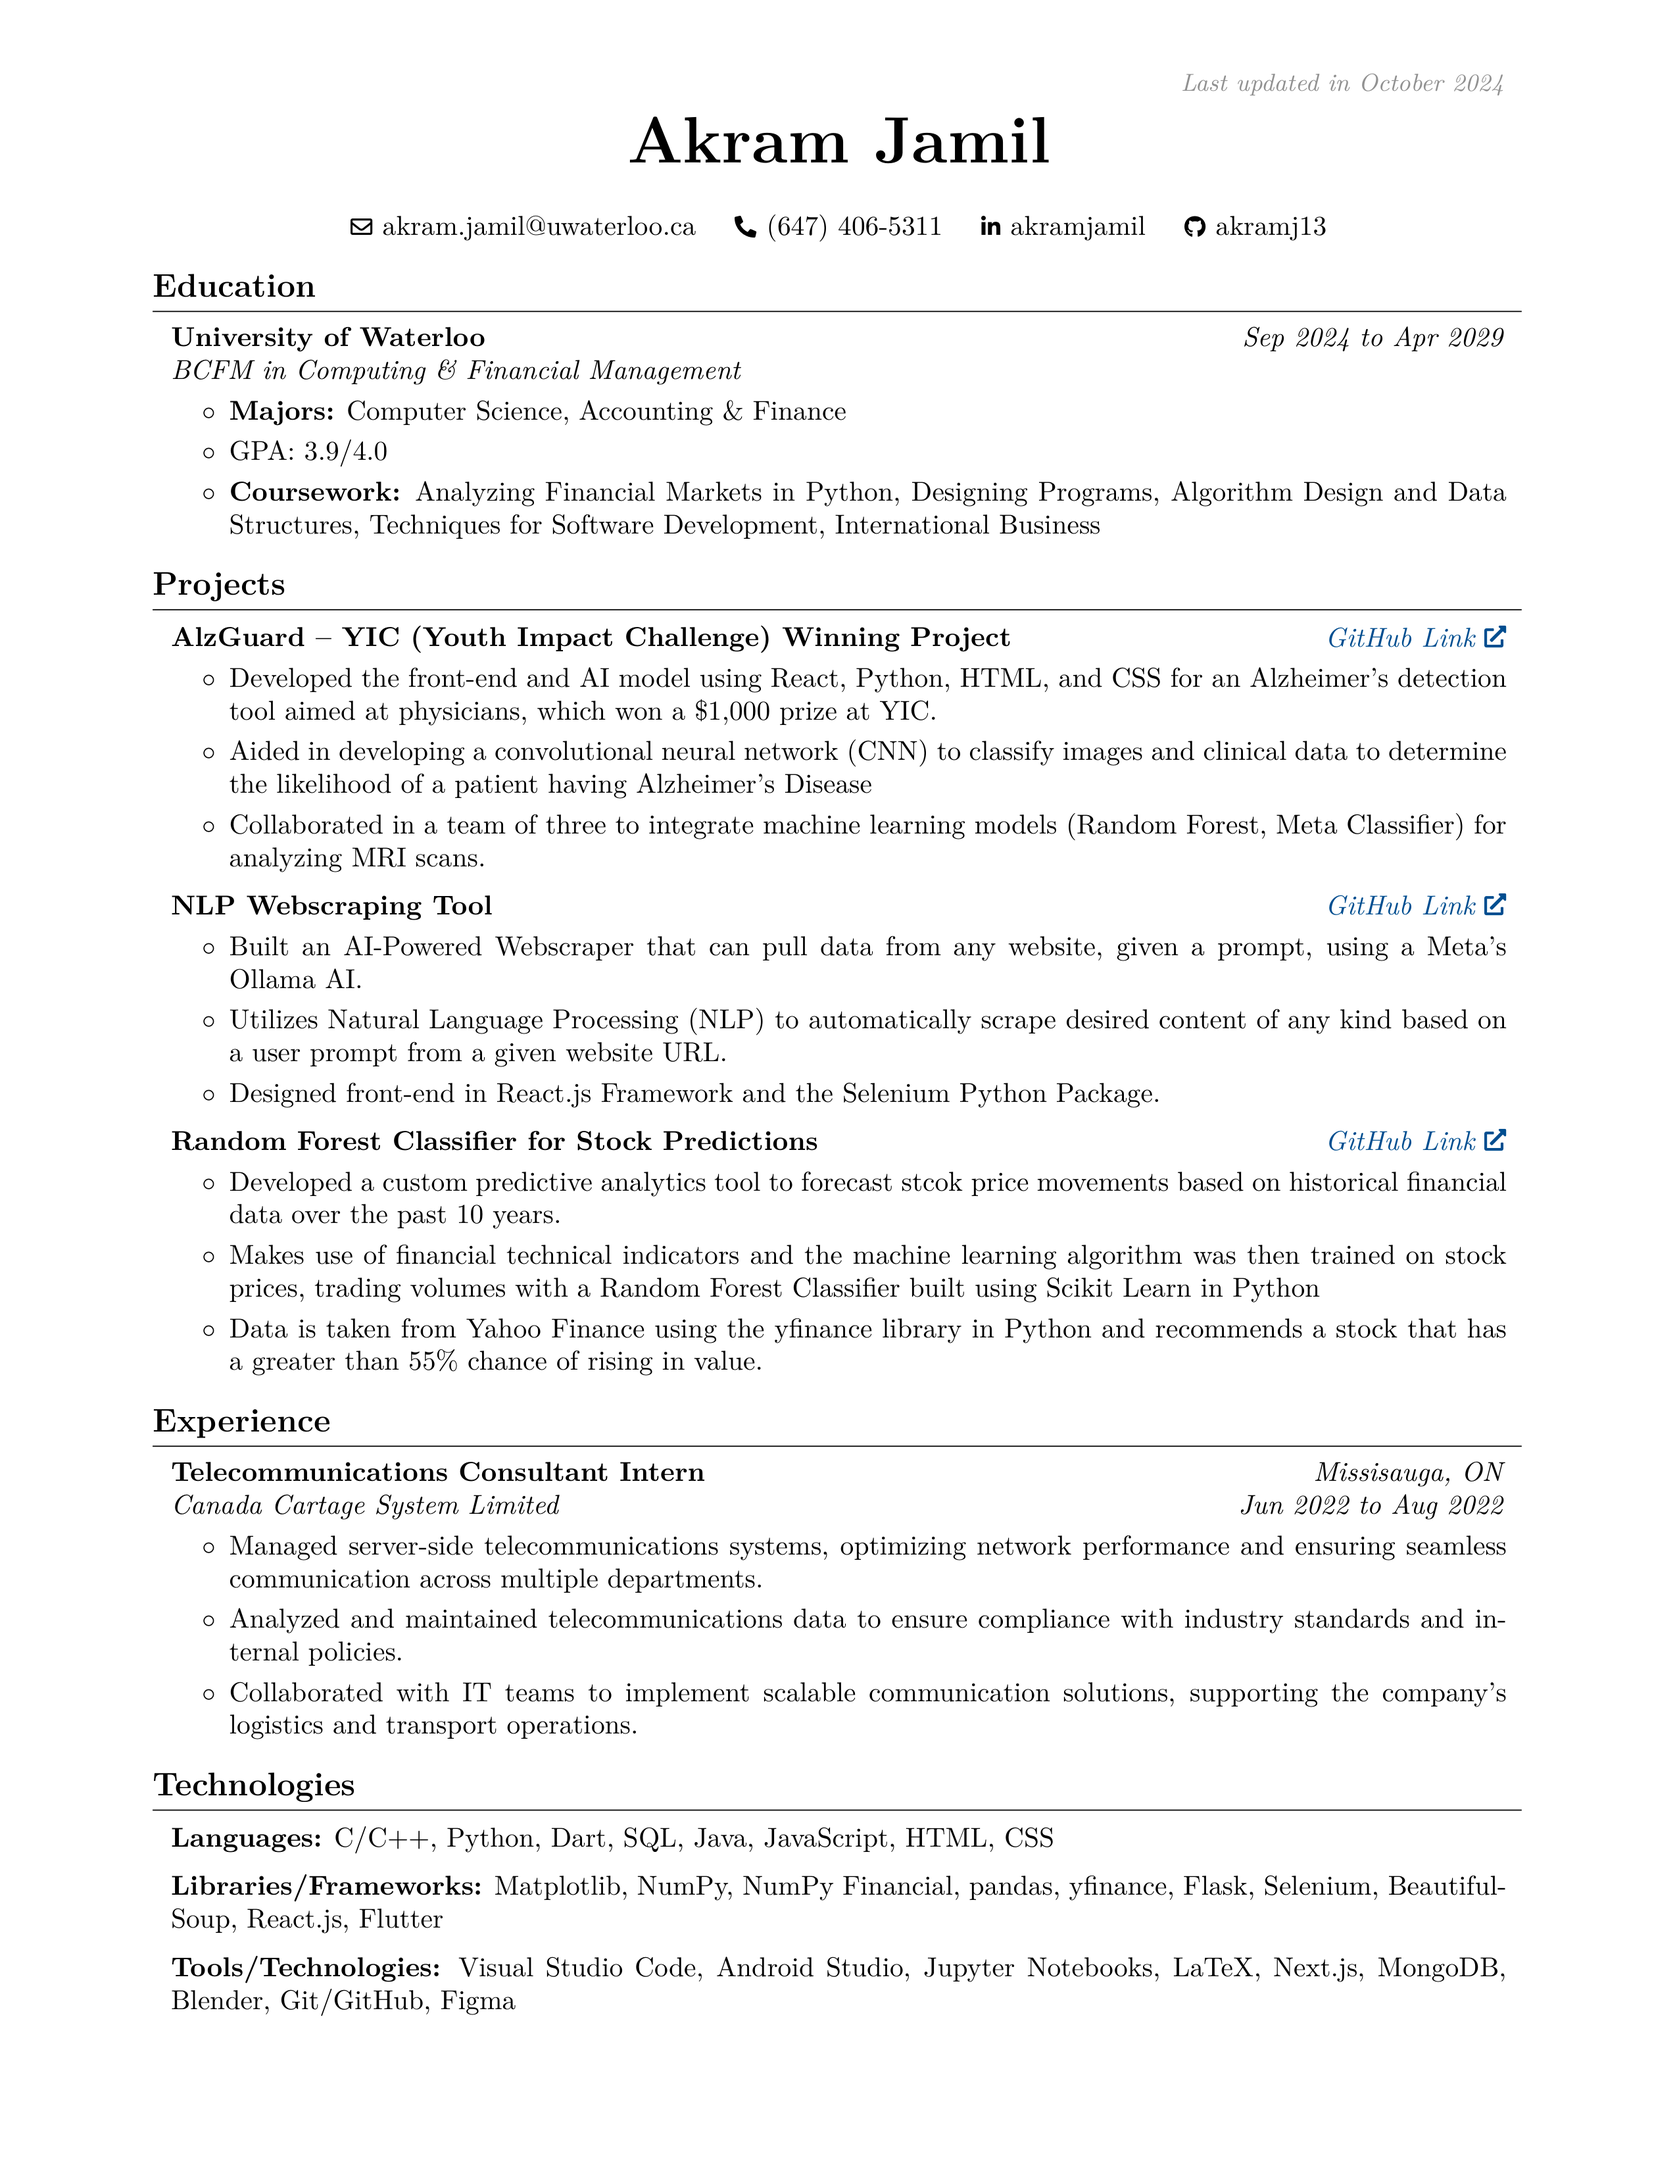
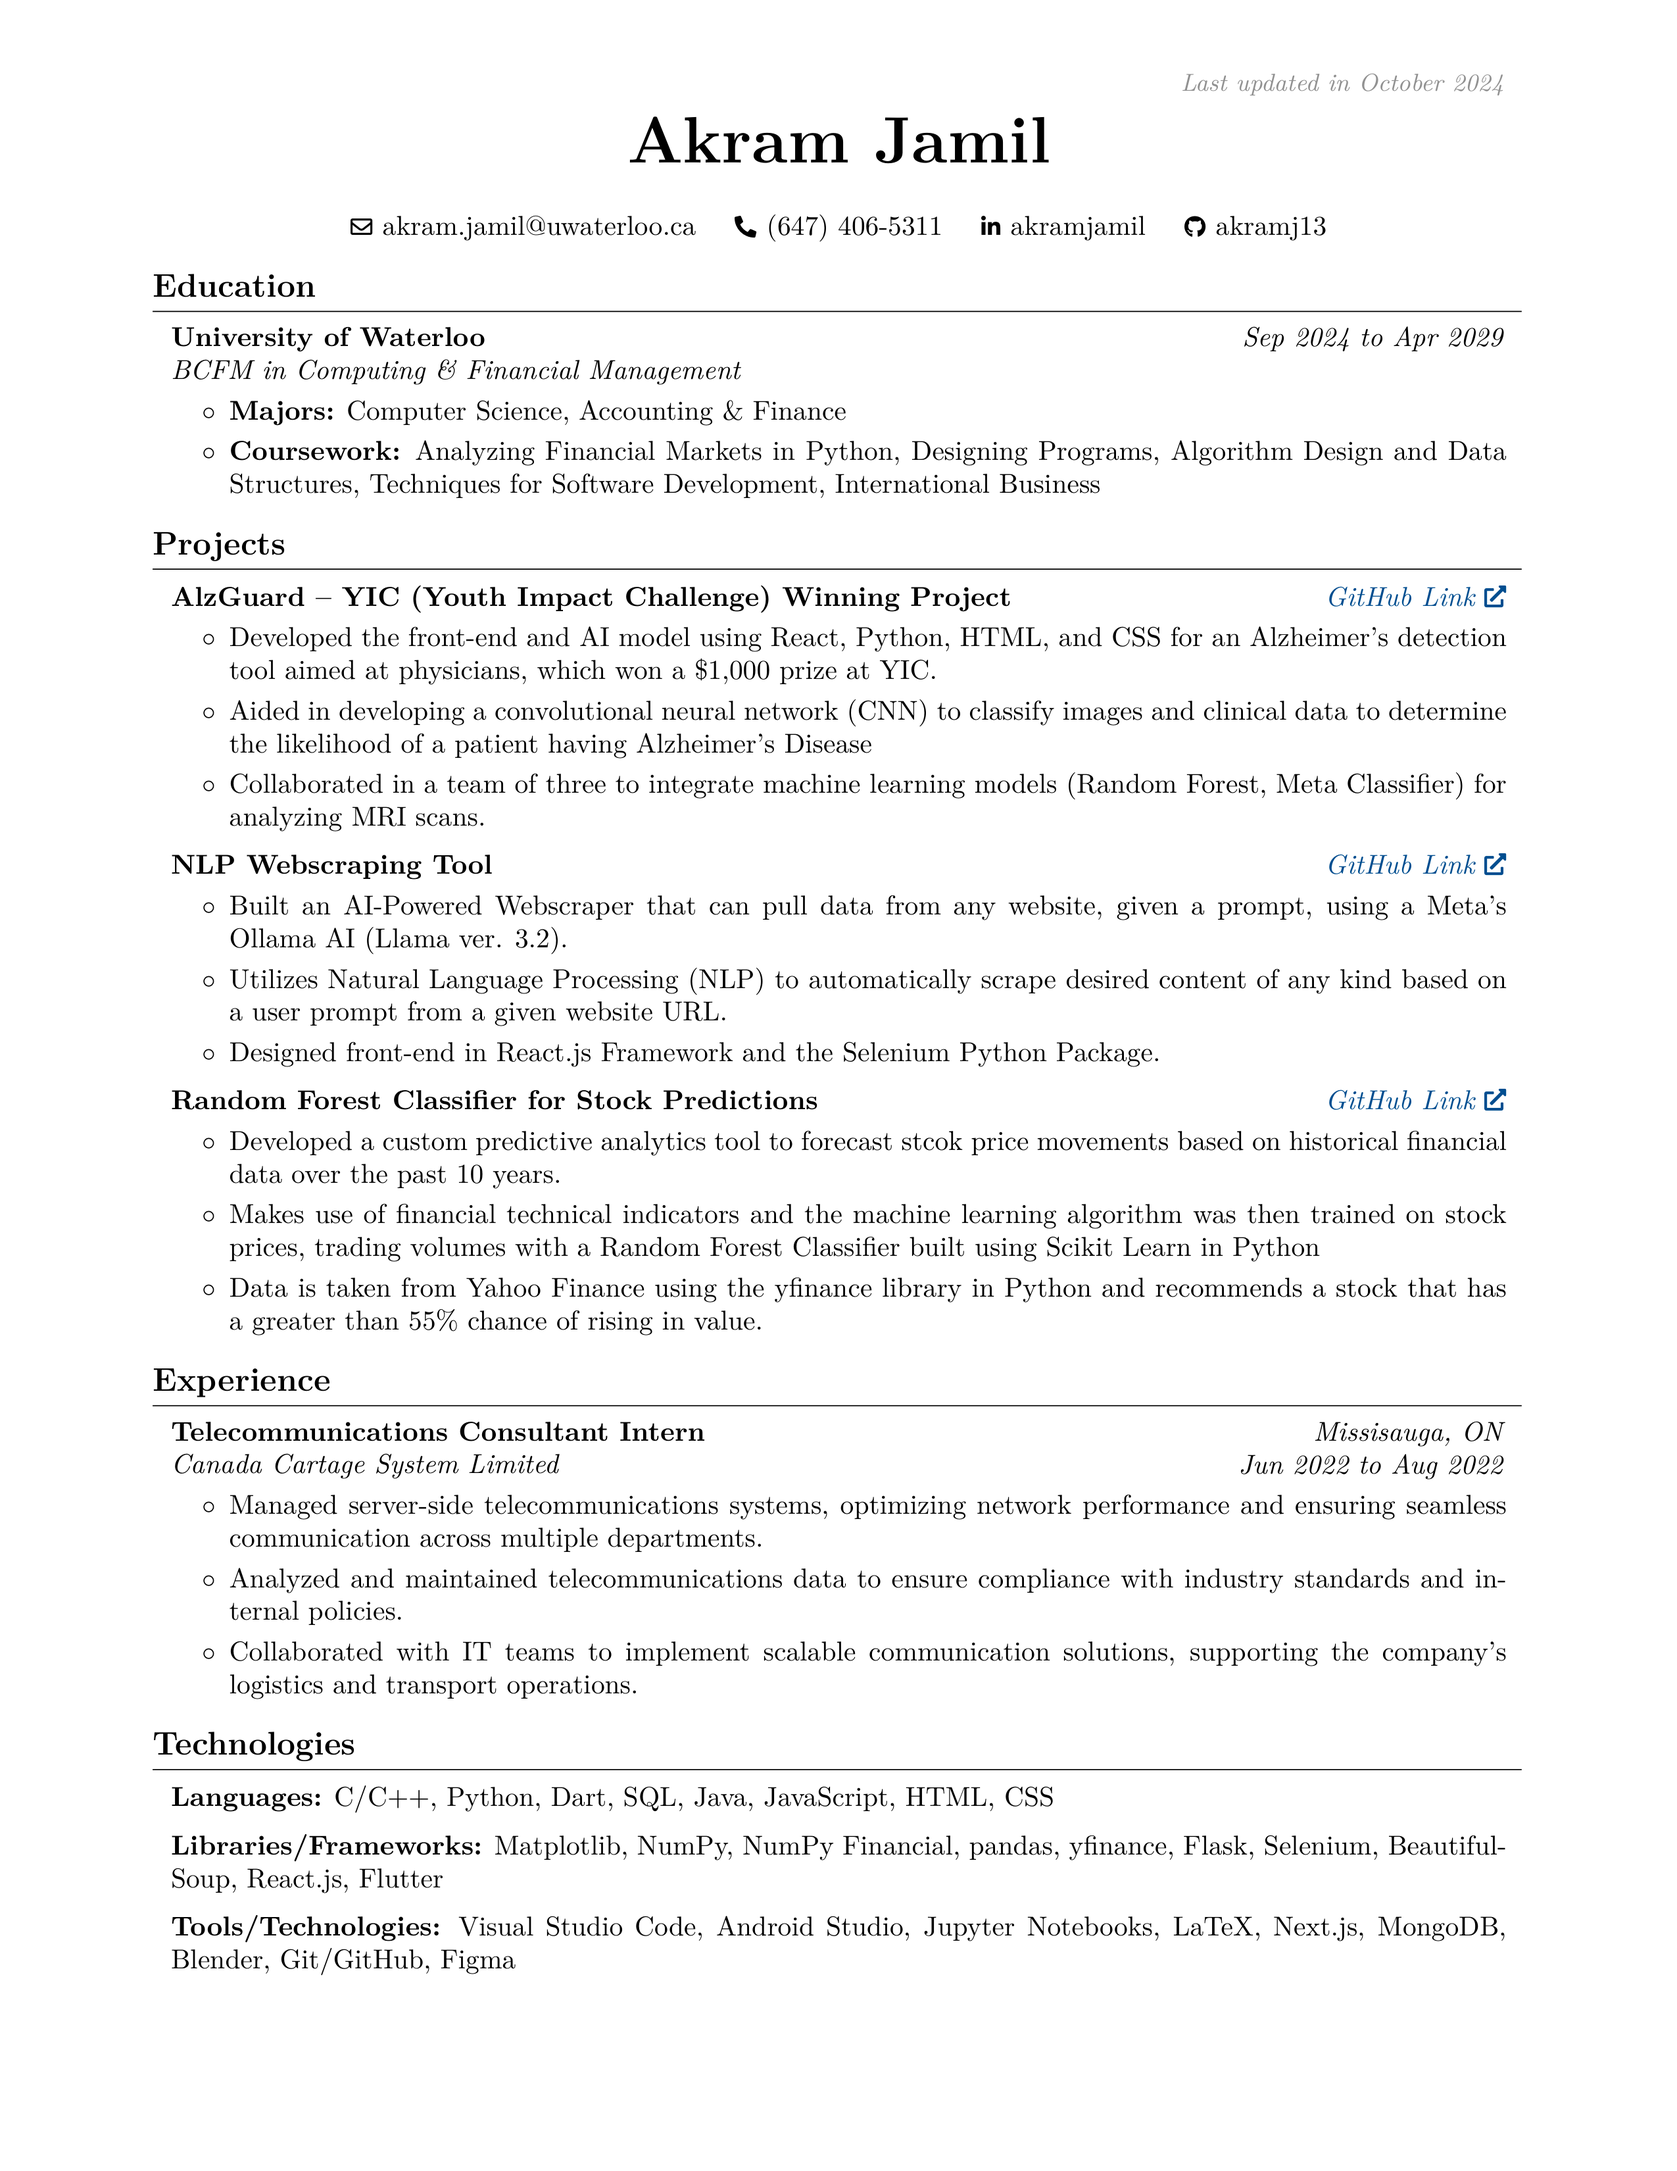
final changes

Changed region(s): [[0.0929, 0.1873, 0.8984, 0.9364], [0.6506, 0.7491, 0.6816, 0.7803], [0.4647, 0.4058, 0.4957, 0.437]]

diff --git a/files/rendercv_output/Akram_Jamil_CV.html b/files/rendercv_output/Akram_Jamil_CV.html
@@ -43,7 +43,6 @@
         <ul>
         <li>Sep 2024 to Apr 2029</li>
         <li><strong>Majors:</strong> Computer Science, Accounting &amp; Finance</li>
-        <li>GPA: 3.9/4.0</li>
         <li><strong>Coursework:</strong> Analyzing Financial Markets in Python, Designing Programs, Algorithm Design and Data Structures, Techniques for Software Development, International Business</li>
         </ul>
         <h1>Projects</h1>
@@ -57,7 +56,7 @@
         <h2>NLP Webscraping Tool</h2>
         <ul>
         <li><a href="https://github.com/akramj13/ai-webscrape">GitHub Link</a></li>
-        <li>Built an AI-Powered Webscraper that can pull data from any website, given a prompt, using a Meta's Ollama AI.</li>
+        <li>Built an AI-Powered Webscraper that can pull data from any website, given a prompt, using a Meta's Ollama AI (Llama ver. 3.2).</li>
         <li>Utilizes Natural Language Processing (NLP) to automatically scrape desired content of any kind based on a user prompt from a given website URL.</li>
         <li>Designed front-end in React.js Framework and the Selenium Python Package.</li>
         </ul>

diff --git a/files/rendercv_output/Akram_Jamil_CV.tex b/files/rendercv_output/Akram_Jamil_CV.tex
@@ -190,7 +190,6 @@
         \begin{onecolentry}
             \begin{highlights}
                 \item \textbf{Majors:} Computer Science, Accounting \& Finance
-                \item GPA: 3.9/4.0
                 \item \textbf{Coursework:} Analyzing Financial Markets in Python, Designing Programs, Algorithm Design and Data Structures, Techniques for Software Development, International Business
             \end{highlights}
         \end{onecolentry}
@@ -232,7 +231,7 @@
         \vspace{0.10 cm}
         \begin{onecolentry}
             \begin{highlights}
-                \item Built an AI-Powered Webscraper that can pull data from any website, given a prompt, using a Meta's Ollama AI.
+                \item Built an AI-Powered Webscraper that can pull data from any website, given a prompt, using a Meta's Ollama AI (Llama ver. 3.2).
                 \item Utilizes Natural Language Processing (NLP) to automatically scrape desired content of any kind based on a user prompt from a given website URL.
                 \item Designed front-end in React.js Framework and the Selenium Python Package.
             \end{highlights}

diff --git a/files/rendercv_output/Akram_Jamil_CV.md b/files/rendercv_output/Akram_Jamil_CV.md
@@ -12,7 +12,6 @@
 
 - Sep 2024 to Apr 2029
 - **Majors:** Computer Science, Accounting & Finance
-- GPA: 3.9/4.0
 - **Coursework:** Analyzing Financial Markets in Python, Designing Programs, Algorithm Design and Data Structures, Techniques for Software Development, International Business
 
 # Projects
@@ -27,7 +26,7 @@
 ## NLP Webscraping Tool
 
 - [GitHub Link](https://github.com/akramj13/ai-webscrape)
-- Built an AI-Powered Webscraper that can pull data from any website, given a prompt, using a Meta's Ollama AI.
+- Built an AI-Powered Webscraper that can pull data from any website, given a prompt, using a Meta's Ollama AI (Llama ver. 3.2).
 - Utilizes Natural Language Processing (NLP) to automatically scrape desired content of any kind based on a user prompt from a given website URL.
 - Designed front-end in React.js Framework and the Selenium Python Package.
 
